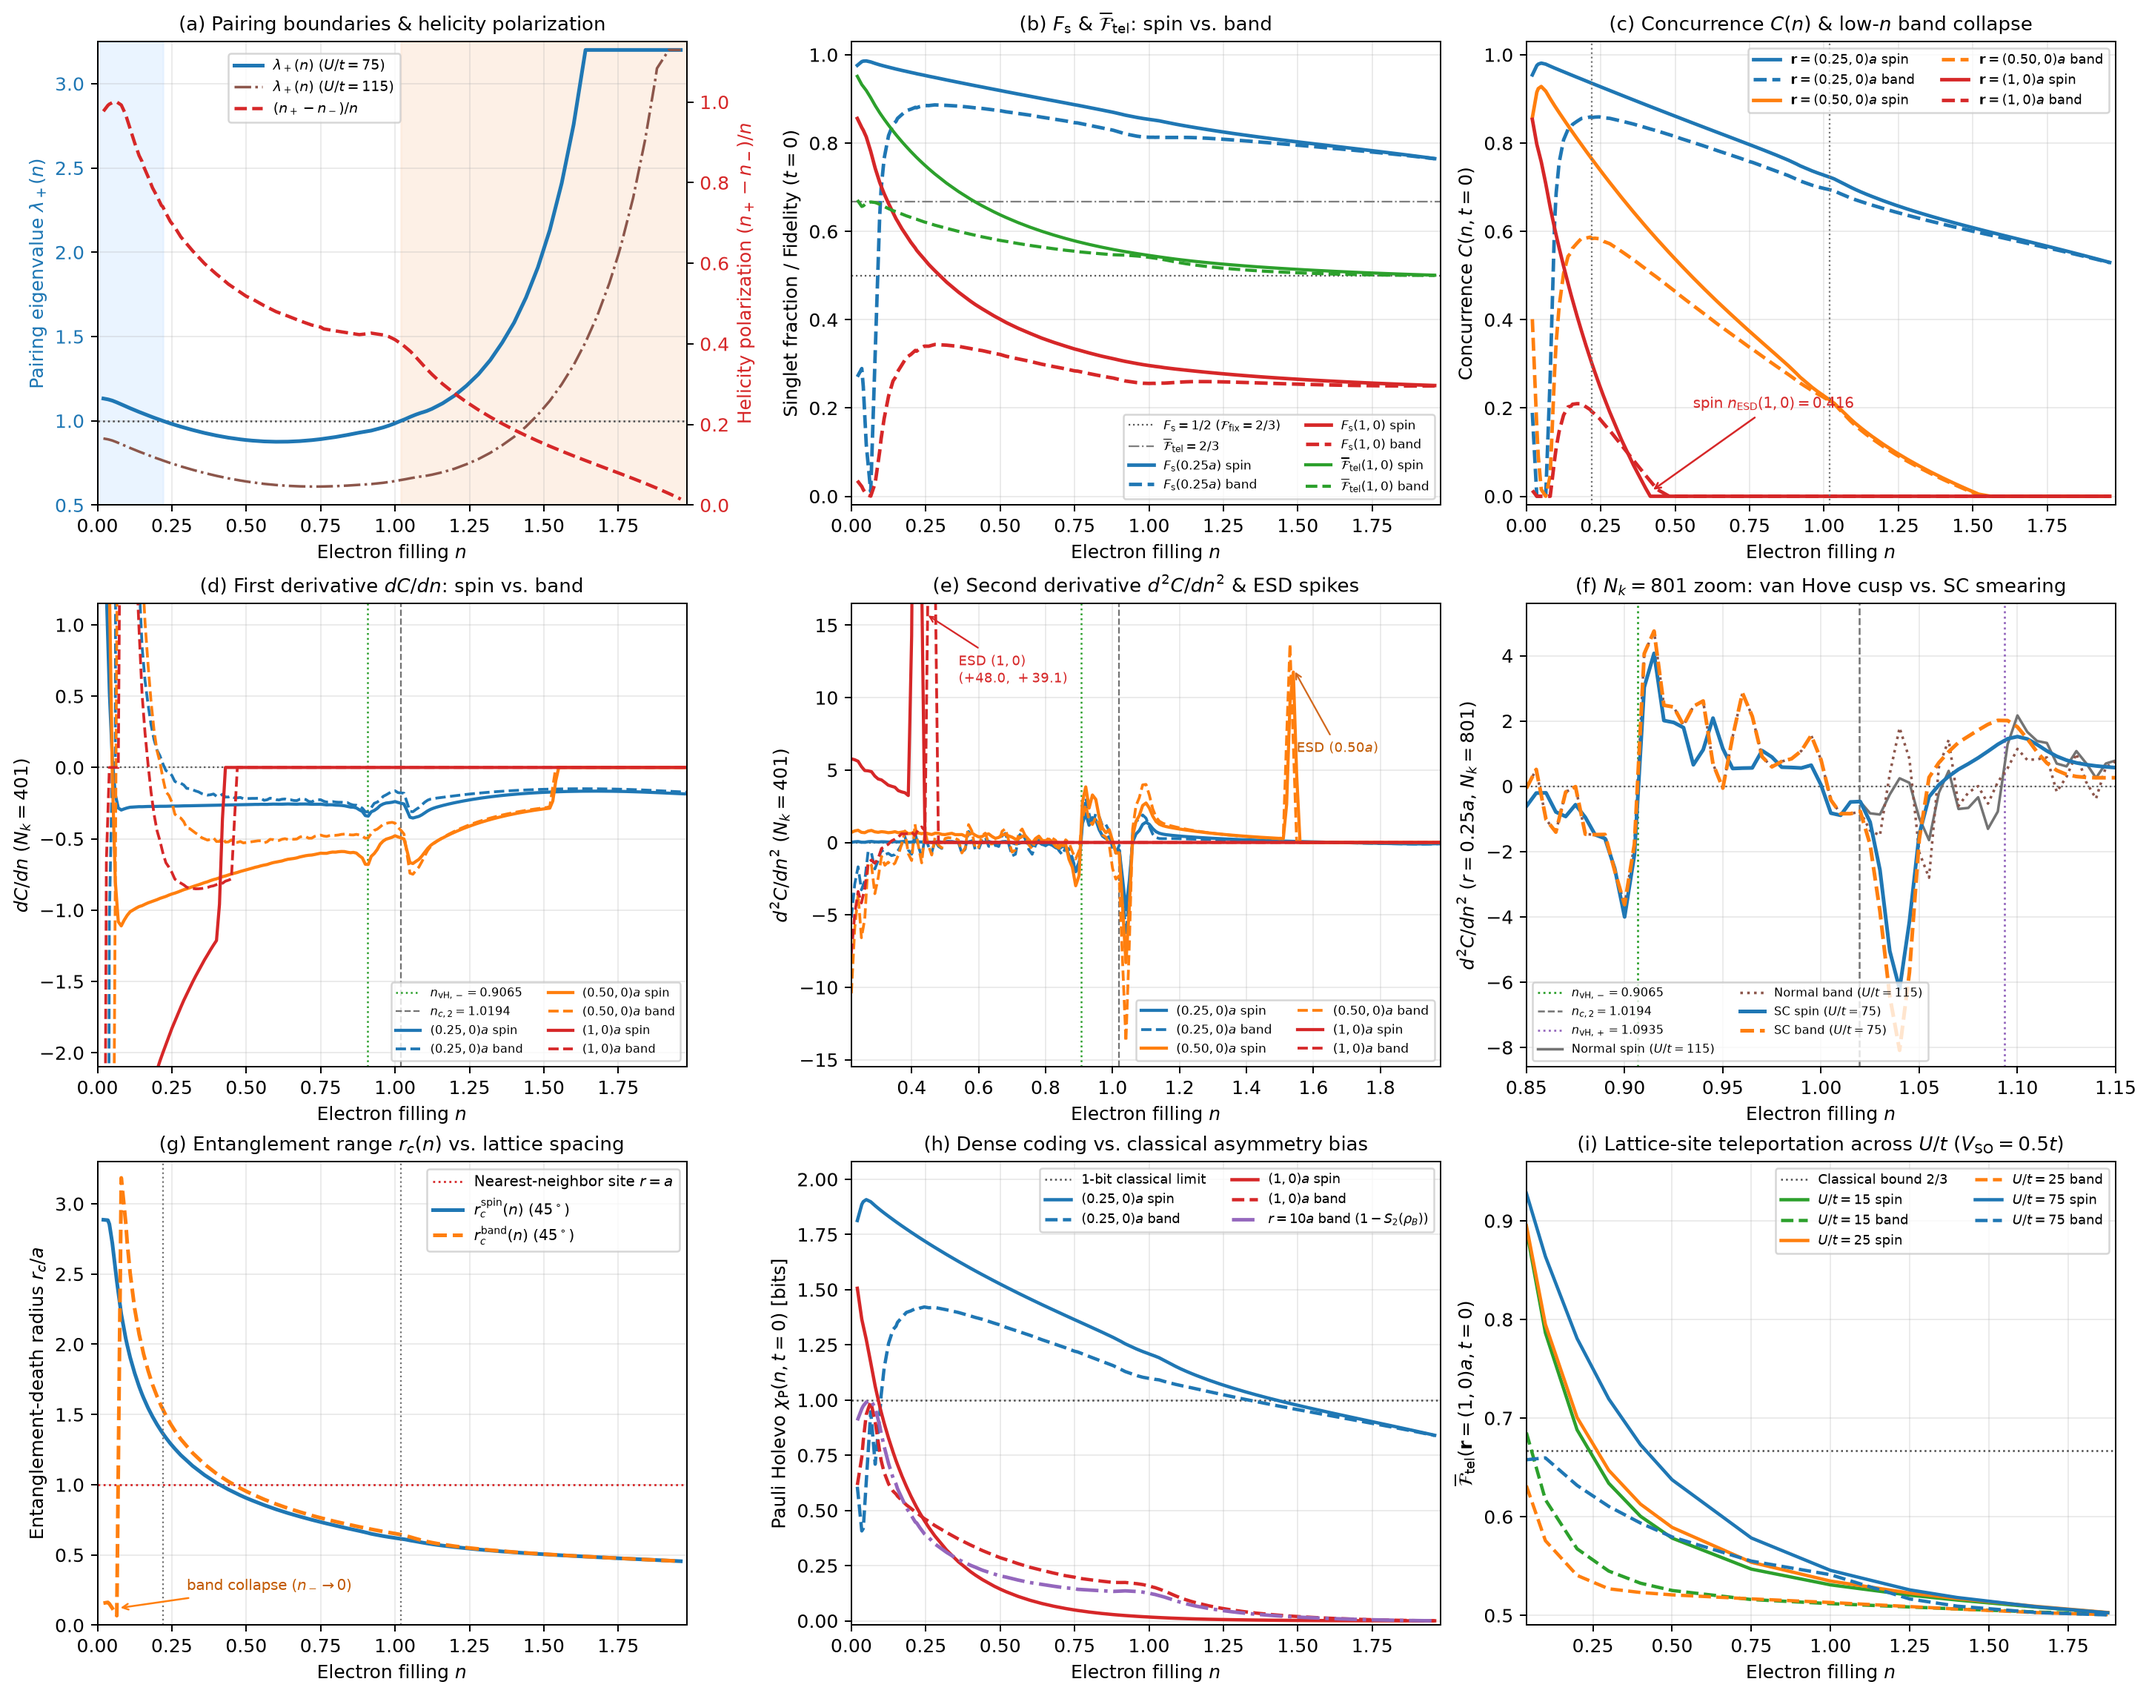
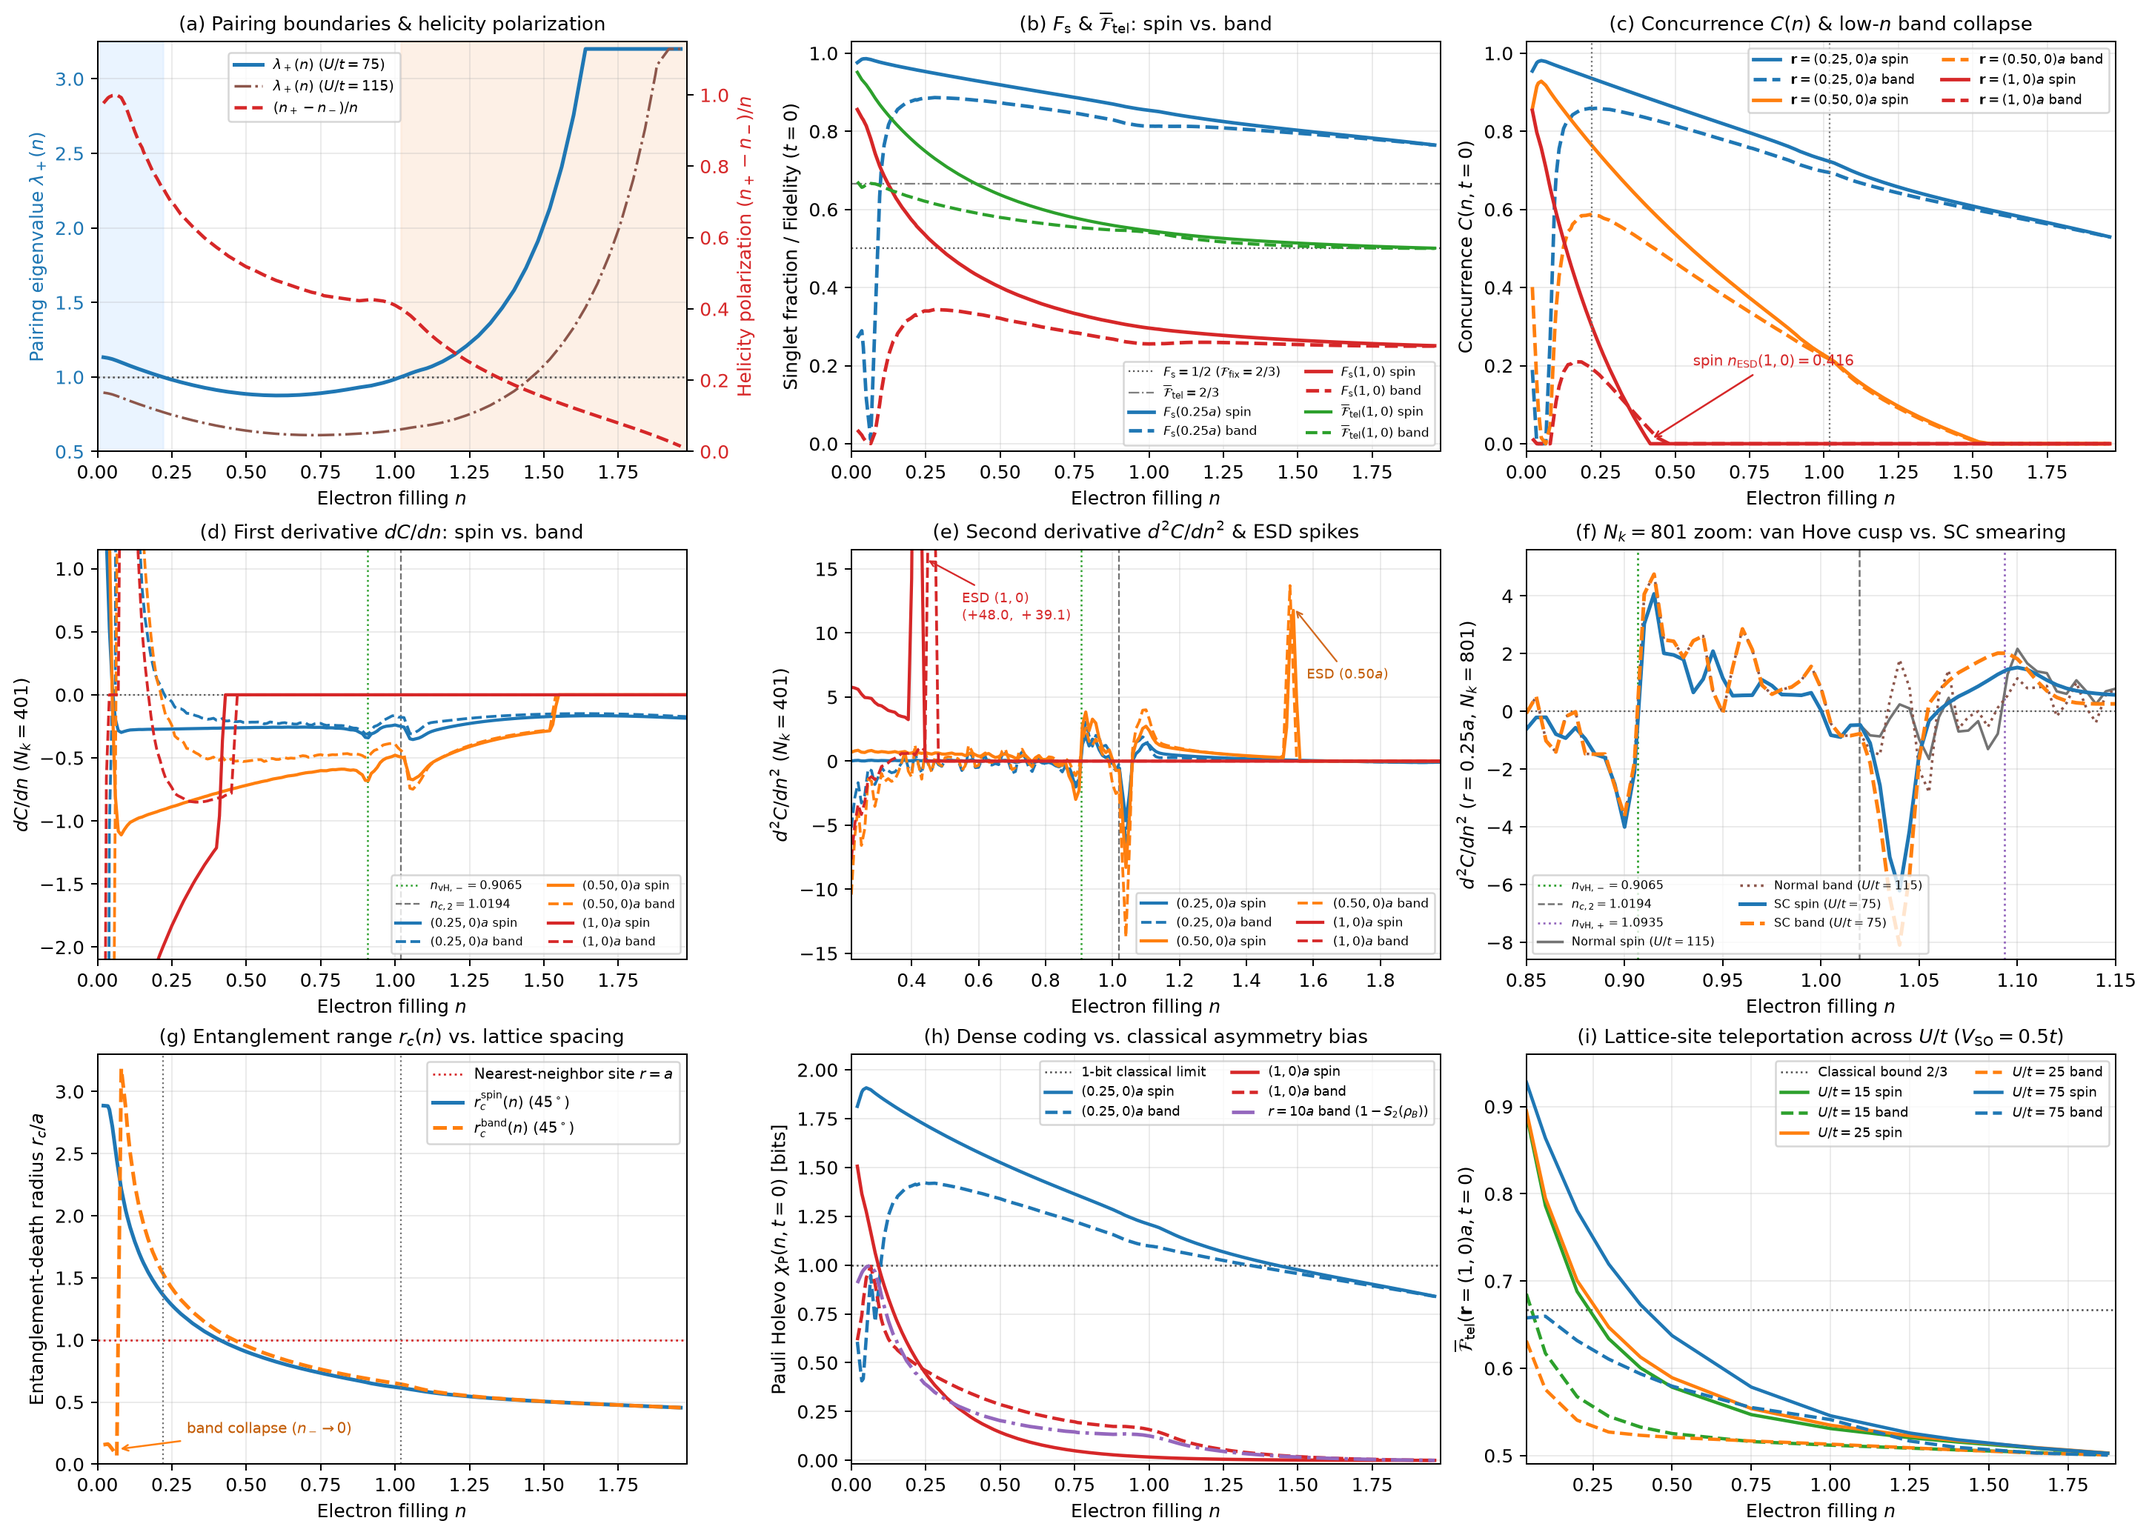
Fit Fig. 13 3x3 derivatives cleanly inside page height and refine caption

diff --git a/manuscript.tex b/manuscript.tex
@@ -1355,51 +1355,31 @@ ranges and non-Markovian open-system communication protocols.
 
 \begin{figure*}[t]
     \centering
-    \includegraphics[width=\textwidth]
+    \includegraphics[width=0.92\textwidth]
     {figs/n_dependence_phase_and_resources.png}
     \caption{
-    Full-band electron-filling dependence at $V_{\mathrm{SO}}/t=0.5$,
-    $\Delta_t/t=4.5$, and $T=0$ comparing the original-spin (solid) and
-    helicity-band (dashed) bases. Panels~(a)--(c) and (g)--(i) are
-    evaluated on periodic $N_k=201$ meshes (cross-checked at $N_k=401$ to
-    $\Delta C\le 2.8\times 10^{-3}$), while panels~(d)--(f) show converged
-    periodic $N_k=401$ and $N_k=801$ finite-difference concurrence
-    derivatives ($dC/dn$ and $d^2C/dn^2$).
-    (a)~Linearized pair-instability eigenvalue $\lambda_+(n)$ at $U/t=75$
-    (blue) and $115$ (brown dash-dot), showing the re-entrant dilute
-    nodal $s_{\pm}$ pocket ($n<n_{c,1}=0.2192$) and high-density dome
-    ($n>n_{c,2}=1.0194$) at $U/t=75$, overlaid with the helicity
-    population polarization $(n_+-n_-)/n$ (red dashed, right axis).
-    (b)~Initial ($t=0$) singlet fraction $F_{\mathrm{s}}$ at
-    $\mathbf{r}=(0.25,0)a$ and $\mathbf{r}=(1,0)a$, together with locally
-    optimized teleportation fidelity $\overline{\mathcal{F}}_{\mathrm{tel}}(1,0)$.
-    (c)~Initial Wootters concurrence $C(n)$ at $\mathbf{r}=(0.25,0)a$,
-    $(0.50,0)a$, and $(1,0)a$, marking the spin-basis lattice-site ESD
-    threshold $n_{\mathrm{ESD}}(1,0)=0.4162$.
-    (d)~First derivative $dC/dn$ ($N_k=401$, $200$ points on
-    $n\in[0.005,1.98]$) across $(0.25,0)a$, $(0.50,0)a$, and $(1,0)a$,
-    marking $n_{\mathrm{vH},-}=0.9065$ and $n_{c,2}=1.0194$ (vertical scale
-    clipped to $[-2.1,1.15]$; dilute band collapse reaches $-37.3$ and
-    $+27.6$ near $n\approx 0.065$).
-    (e)~Second derivative $d^2C/dn^2$ ($N_k=401$, $n\in[0.22,1.98]$),
-    highlighting the noncritical Wootters ESD zero-crossing spikes at
-    $(1,0)a$ ($+48.0$ spin, $+39.1$ band) and $(0.50,0)a$ ($+11.8$ spin,
-    $+13.7$ band).
-    (f)~High-resolution $N_k=801$ zoom ($\Delta n=0.005$) of $d^2C/dn^2$ at
-    $\mathbf{r}=(0.25,0)a$ across $n\in[0.85,1.15]$, comparing the
-    superconducting state ($U/t=75$) with the normal state ($U/t=115$)
-    across the lower van Hove saddle $n_{\mathrm{vH},-}=0.9065$, the
-    pairing onset $n_{c,2}=1.0194$, and the smeared upper van Hove
-    saddle $n_{\mathrm{vH},+}=1.0935$.
-    (g)~Continuous entanglement-death radius $r_c(n)$ along
-    $\theta=45^\circ$ relative to the nearest-neighbor lattice spacing
-    $r=a$ (dotted), highlighting the low-$n$ band collapse as $n_-\to 0$.
-    (h)~Pauli-ensemble Holevo capacity $\chi_{\mathrm{P}}(n,t=0)$ at
-    $(0.25,0)a$, $(1,0)a$, and asymptotic $r=10a$ in the band basis
-    [$1-S_2(\rho_B^{\mathrm{band}})$].
-    (i)~Lattice-site optimized teleportation fidelity
-    $\overline{\mathcal{F}}_{\mathrm{tel}}(\mathbf{r}=(1,0)a,t=0)$ across
-    $U/t\in\{15,25,75\}$ at $V_{\mathrm{SO}}/t=0.5$.
+    Full-band filling dependence at $V_{\mathrm{SO}}/t=0.5$, $\Delta_t/t=4.5$,
+    and $T=0$ comparing the original-spin (solid) and helicity-band (dashed)
+    bases: $N_k=201$ periodic meshes in (a)--(c),(g)--(i) ($N_k=401$ check
+    $\Delta C\le 2.8\times 10^{-3}$) and converged $N_k=401,801$ derivatives in
+    (d)--(f).
+    (a)~$\lambda_+(n)$ at $U/t=75$ and $115$ (dilute $n<n_{c,1}=0.2192$ and
+    high-$n$ dome $n>n_{c,2}=1.0194$) with polarization $(n_+-n_-)/n$ (red).
+    (b)~$F_{\mathrm{s}}$ and $\overline{\mathcal{F}}_{\mathrm{tel}}(1,0)$ at
+    $t=0$.
+    (c)~$C(n,t=0)$ at $(0.25,0)a$, $(0.50,0)a$, and $(1,0)a$
+    [$n_{\mathrm{ESD}}^{\mathrm{spin}}(1,0)=0.4162$].
+    (d)~$dC/dn$ ($N_k=401$, clipped to $[-2.1,1.15]$; dilute band swing
+    spans $[-37.3,+27.6]$ near $n\approx 0.065$).
+    (e)~$d^2C/dn^2$ ($N_k=401$, $n\ge 0.22$), resolving noncritical Wootters
+    ESD spikes at $(1,0)a$ ($+48.0,+39.1$) and $(0.50,0)a$ ($+11.8,+13.7$).
+    (f)~$N_k=801$ zoom of $d^2C/dn^2$ at $(0.25,0)a$ comparing SC ($U/t=75$)
+    and normal ($U/t=115$) across $n_{\mathrm{vH},-}=0.9065$,
+    $n_{c,2}=1.0194$, and smeared $n_{\mathrm{vH},+}=1.0935$.
+    (g)~$r_c(n,45^\circ)$ vs.\ $r=a$.
+    (h)~$\chi_{\mathrm{P}}(n,t=0)$ and $r=10a$ band limit
+    $1-S_2(\rho_B^{\mathrm{band}})$.
+    (i)~$\overline{\mathcal{F}}_{\mathrm{tel}}(1,0)$ across $U/t\in\{15,25,75\}$.
     }
     \label{fig:n_phase_resources}
 \end{figure*}
@@ -1489,10 +1469,10 @@ separates genuine Fermi-surface and pairing signatures from noncritical
 cutoff effects in both bases. In the dilute pocket ($n\lesssim 0.15$),
 the rapid collapse and recovery of $C_{\mathrm{band}}$ around
 $n\approx 0.065$ produces dramatic helicity-band derivative swings at
-$\mathbf{r}=(0.25,0)a$ ($dC_{\mathrm{band}}/dn\in[-37.27,+27.59]$,
-$d^2C_{\mathrm{band}}/dn^2\in[-884.4,+1379.6]$), far stronger than the
-corresponding spin-basis slopes ($dC_{\mathrm{spin}}/dn\in[-0.35,+4.77]$
-at $0.25a$, and $-8.40$ at $(1,0)a$). At intermediate and high densities
+$\mathbf{r}=(0.25,0)a$: $dC_{\mathrm{band}}/dn$ spans $-37.27$ to $+27.59$
+and $d^2C_{\mathrm{band}}/dn^2$ spans $-884.4$ to $+1379.6$, far exceeding
+the spin-basis slopes ($dC_{\mathrm{spin}}/dn$ from $-0.35$ to $+4.77$ at
+$0.25a$, and $-8.40$ at $(1,0)a$). At intermediate and high densities
 [Fig.~\ref{fig:n_phase_resources}(e)], the Wootters zero cutoff
 $\max(0,C_{\mathrm{raw}})$ creates sharp, separation-dependent
 step discontinuities in $dC/dn$ and positive noncritical spikes in
@@ -1503,16 +1483,16 @@ no singularity in any BdG parameter. On the $N_k=801$ zoom at
 $\mathbf{r}=(0.25,0)a$ [Fig.~\ref{fig:n_phase_resources}(f)], where $C$
 never hits zero, the normal-state lower van Hove saddle
 $n_{\mathrm{vH},-}=0.9065$ drives a sharp dip in $dC/dn$ ($-0.3561$ spin,
-$-0.3325$ band) and a sign-flip cusp in $d^2C/dn^2$ ($-4.00\to +4.07$
-spin, $-3.63\to +4.75$ band) shared identically by the $U/t=75$ and
-$U/t=115$ curves. By contrast, at the continuous pairing transition
+$-0.3325$ band) and a sign-flip cusp in $d^2C/dn^2$ ($-4.00$ to $+4.07$
+in spin; $-3.63$ to $+4.75$ in band) shared identically by $U/t=75$ and
+$U/t=115$. By contrast, at the continuous pairing transition
 $n_{c,2}=1.0194$, the 2D BCS essential singularity keeps $dC/dn$ and
 $d^2C/dn^2$ continuous across $n_{c,2}$ itself, shifting the negative
 superconducting-dome extremum of $d^2C/dn^2$ inside the dome to
 $n=1.040$ ($-6.21$ spin, $-8.09$ band vs.\ $-1.65$ and $-2.80$ in the
-$U/t=115$ normal state), while superconducting pairing smears out the
+$U/t=115$ normal state), while superconducting pairing smears the
 upper van Hove cusp at $n_{\mathrm{vH},+}=1.0935$ relative to the normal
-curve ($-1.31\to +2.17$ spin at $U/t=115$).
+curve ($-1.31$ to $+2.17$ in spin at $U/t=115$).
 
 \item \emph{Role of interaction $U$ across $n$.}
 Comparing $U/t\in\{15,25,75\}$ at $V_{\mathrm{SO}}/t=0.5$

diff --git a/analysis/run_n_dependence_protocols.py b/analysis/run_n_dependence_protocols.py
@@ -313,7 +313,7 @@ def load_task8_concurrence_derivatives() -> dict:
 
 def make_phase_and_resources_figure(sweep: dict, u_comp: dict, derivs: dict) -> None:
     ns = np.asarray(sweep["n"])
-    fig, axes = plt.subplots(3, 3, figsize=(16.0, 12.6), constrained_layout=True)
+    fig, axes = plt.subplots(3, 3, figsize=(16.0, 11.4), constrained_layout=True)
 
     # Panel (a): lambda_+(n) and helicity band polarization (n_+ - n_-)/n
     ax = axes[0, 0]
@@ -416,10 +416,10 @@ def make_phase_and_resources_figure(sweep: dict, u_comp: dict, derivs: dict) -> 
     ):
         ax.plot(n401[m401], derivs["full"]["spin"][rk]["d2C"][m401], color=col, lw=1.7, ls="-", label=f"{lbl} spin")
         ax.plot(n401[m401], derivs["full"]["band"][rk]["d2C"][m401], color=col, lw=1.5, ls="--", label=f"{lbl} band")
-    ax.annotate(r"ESD $(1,0)$" "\n" r"$(+48.0,\, +39.1)$", xy=(0.44, 15.8), xytext=(0.54, 11.0),
+    ax.annotate(r"ESD $(1,0)$" "\n" r"$(+48.0,\, +39.1)$", xy=(0.44, 15.8), xytext=(0.55, 11.0),
                 arrowprops=dict(arrowstyle="->", color="#d62728", lw=0.9),
                 fontsize=7.4, color="#d62728")
-    ax.annotate(r"ESD $(0.50a)$", xy=(1.54, 12.0), xytext=(1.55, 6.2),
+    ax.annotate(r"ESD $(0.50a)$", xy=(1.54, 12.0), xytext=(1.58, 6.4),
                 arrowprops=dict(arrowstyle="->", color="#d2691e", lw=0.9),
                 fontsize=7.4, color="#c25900")
     ax.set_xlim(0.22, 1.98)
